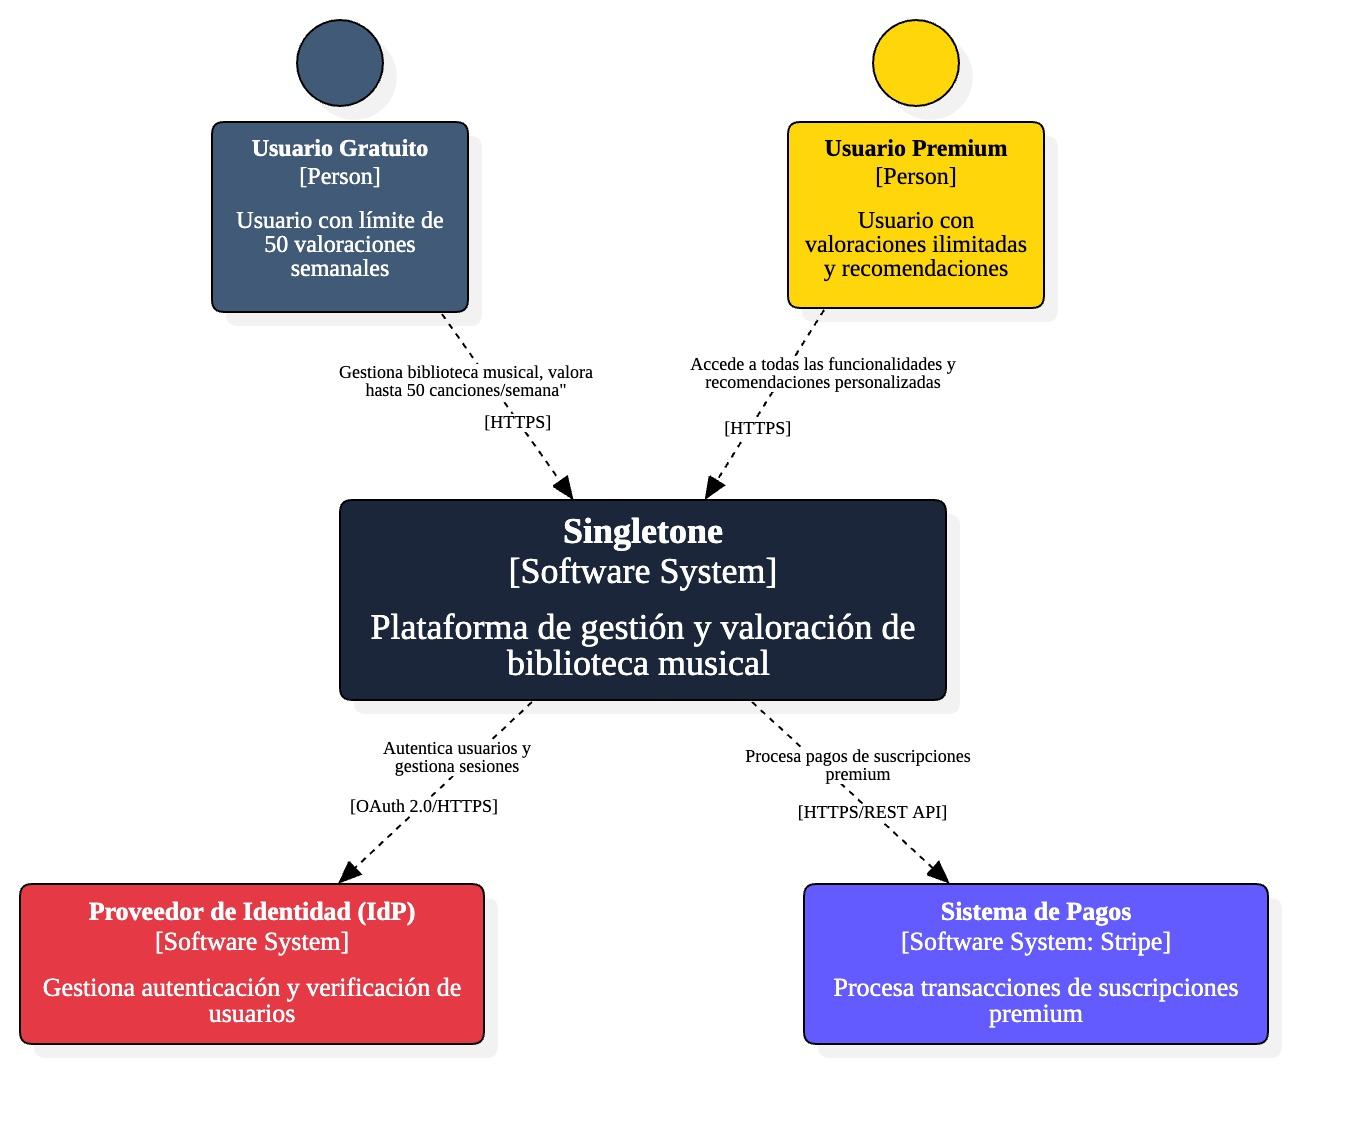
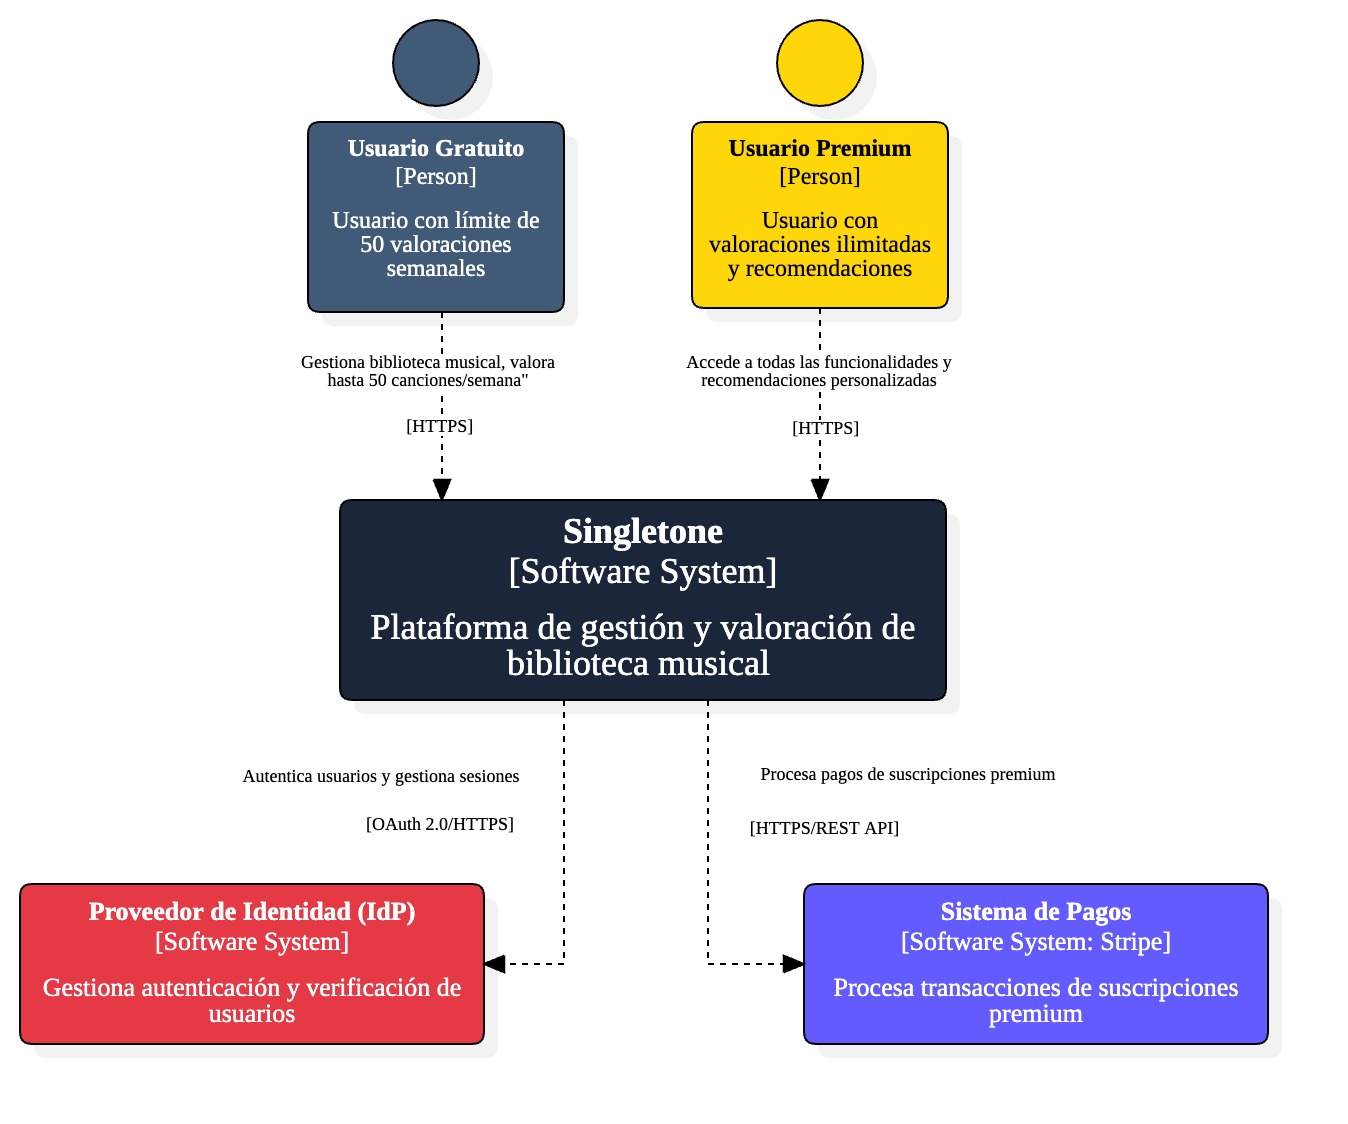
roudi: subiendo diagrama de contendores. Además, se corrigió ligeramente el formato de flechas del diagrama de contexto.

diff --git a/6/5.2/5.2.md b/6/5.2/5.2.md
@@ -1,3 +1,39 @@
 # 5.2. Contenedores
 
-Sample content for section 5.2.
+El presente diagrama representa una arquitectura de microservicios para un sistema de gestión de edificios. Aquí está una descripción detallada de los componentes:
+
+![Diagrama de Contenedores](ContainerDiagram.jpg)
+
+## Usuarios
+
+- **Usuarios Gratuito**: Usuario con límite de 50 valoraciones semanales.
+- **Usuarios Premium**: Usuario con valoraciones ilimitadas y recomendaciones.
+
+## Aplicación Web Frontend
+
+- Desarrollado con React y Javascript.
+- Interfaz principal para los usuarios.
+
+## API Gateway
+
+- Punto de entrada unificado con enrutamiento y autenticación.
+
+## Microservicios
+
+- **Gestión de usuarios**: Registro, autenticación y perfiles de usuario.
+- **Visualización de perfil**: Maneja visualización de datos del perfil, estadísticas y carruseles de contenido musical.
+- **Exploración musical**: Búsqueda y descubrimiento de contenido musical.
+- **Gestión de biblioteca**: Manejo de artistas, álbumes y valoraciones musicales.
+- **Gestión de recomendaciones**: Algoritmos ML para sugerencias personalizadas.
+- **Gestión de planes**: Control de suscripciones y límites de uso.
+
+## Bases de Datos
+
+- **MongoDB**: Catálogo musical y biblioteca de usuarios.
+- **PostgreSQL**: Datos estructurados de usuarios, planes y transacciones.
+- **Redis**: Cache de sesiones y contadores de límites.
+
+## Sistemas Externos
+
+- **Sistema de Pagos**: Procesa transacciones de suscripciones premium.
+- **Proveedor de Identidad**: Gestiona autenticación y verificación de usuarios.
